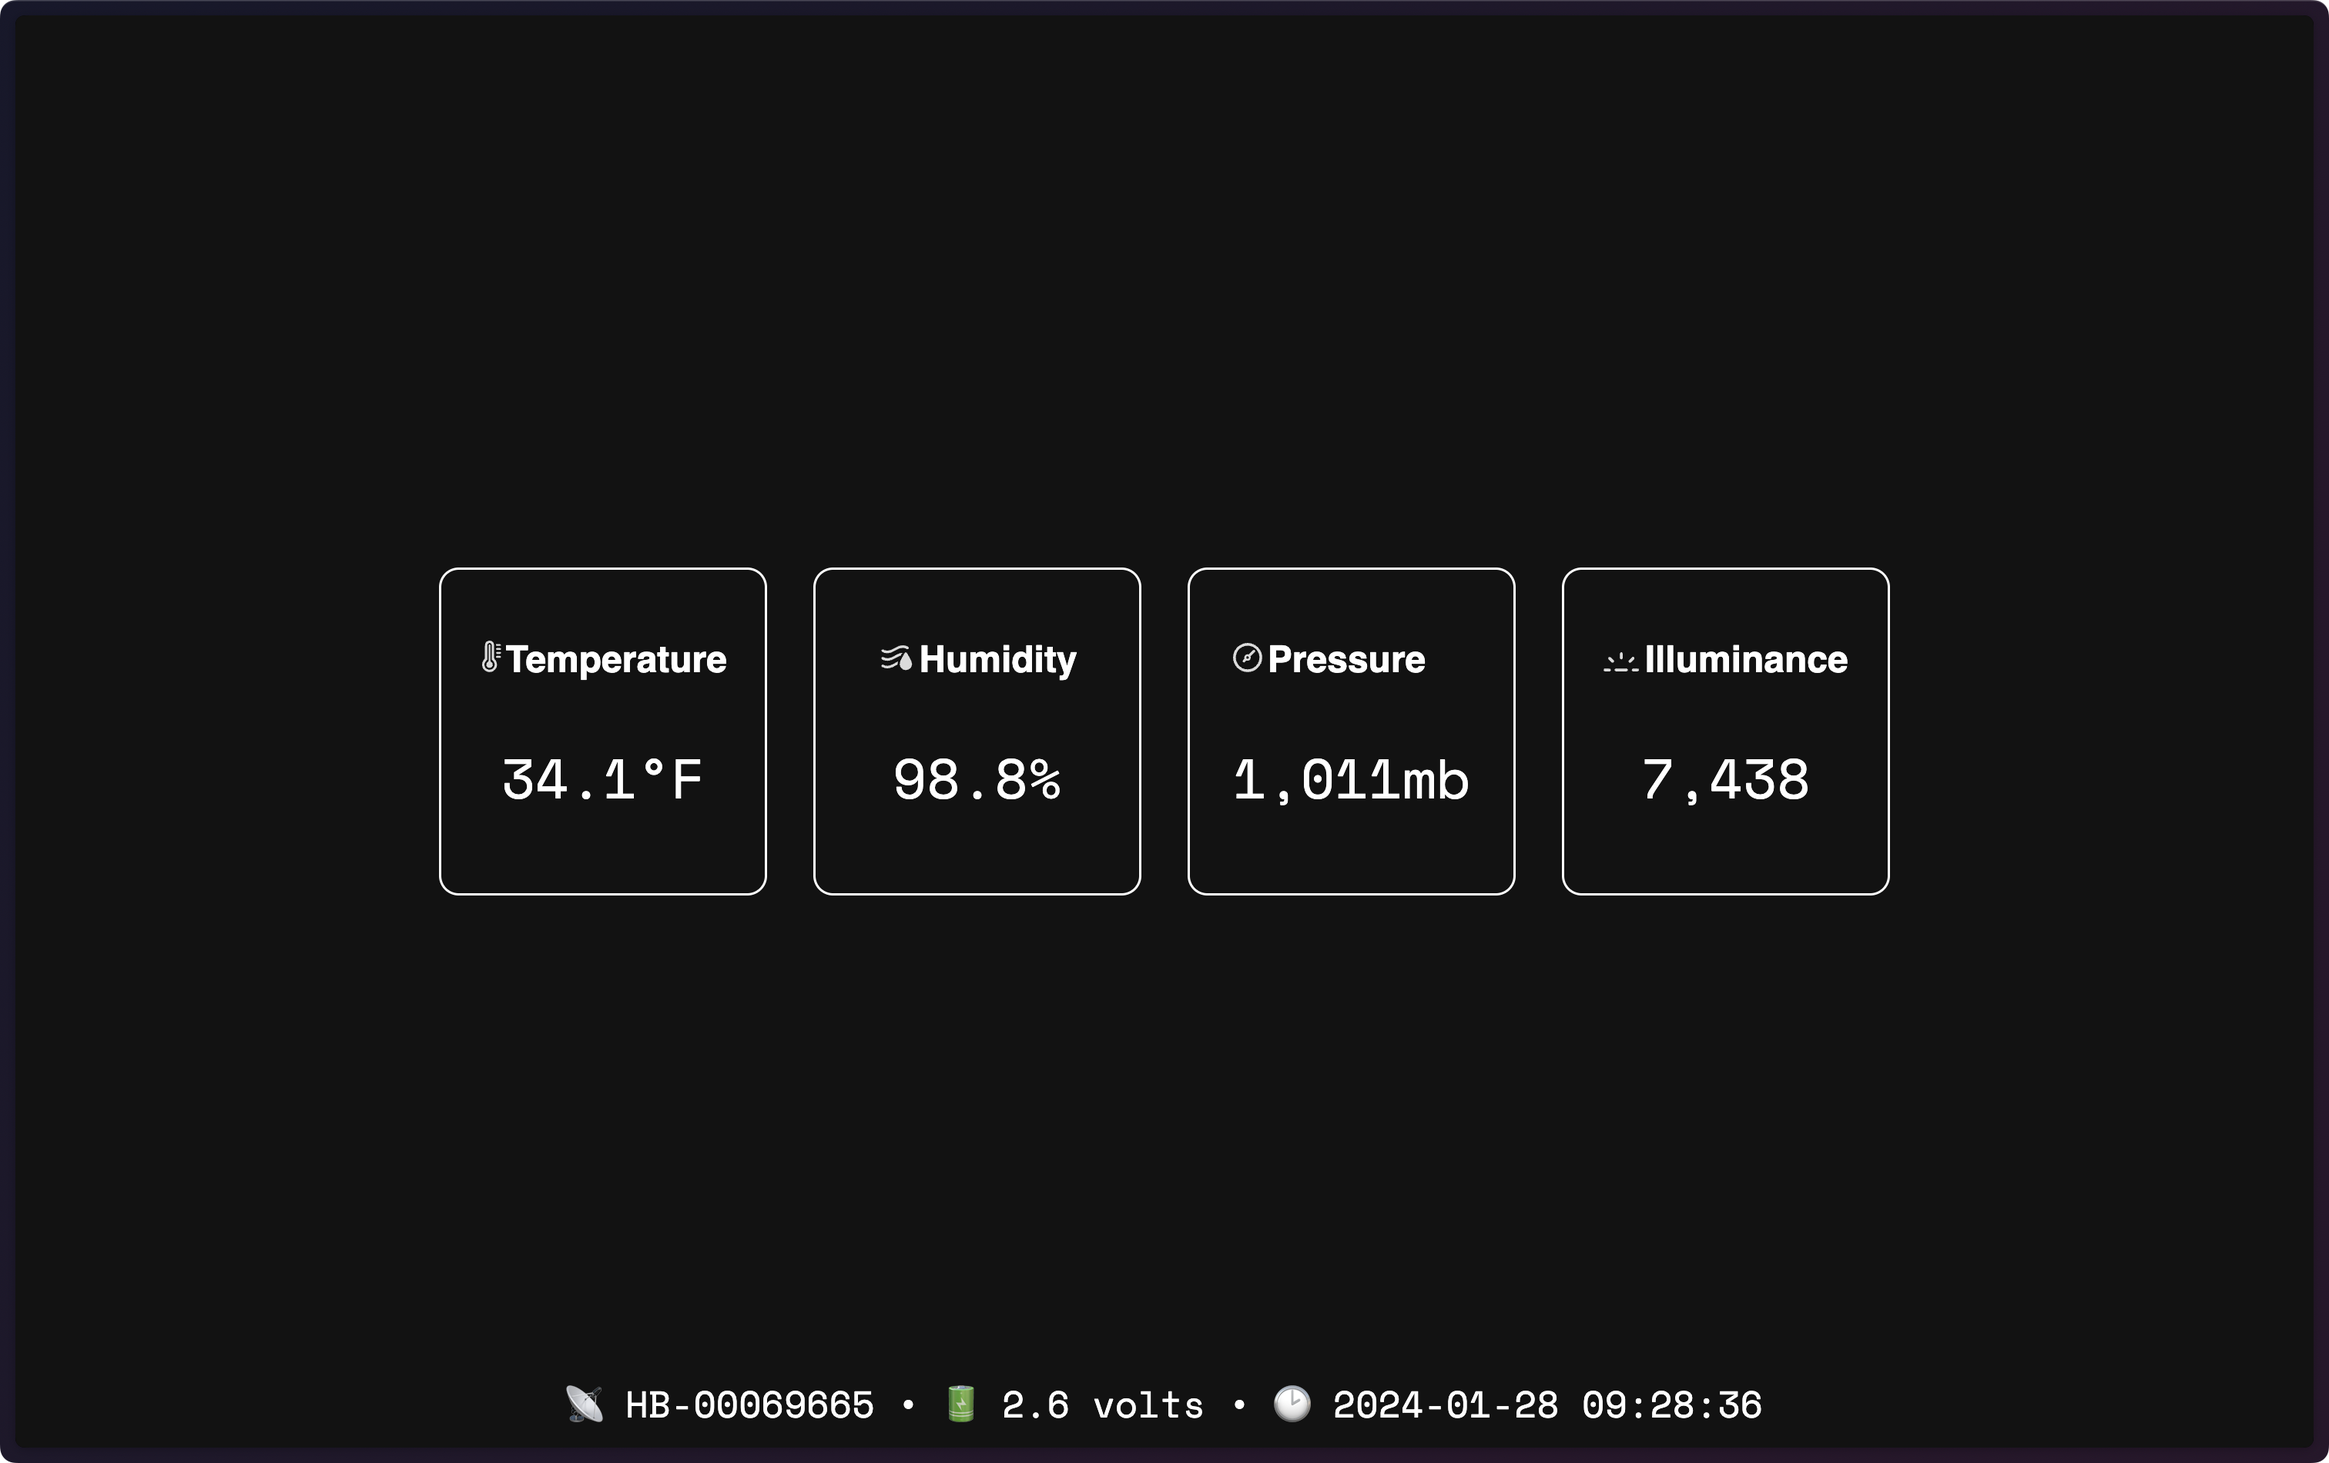
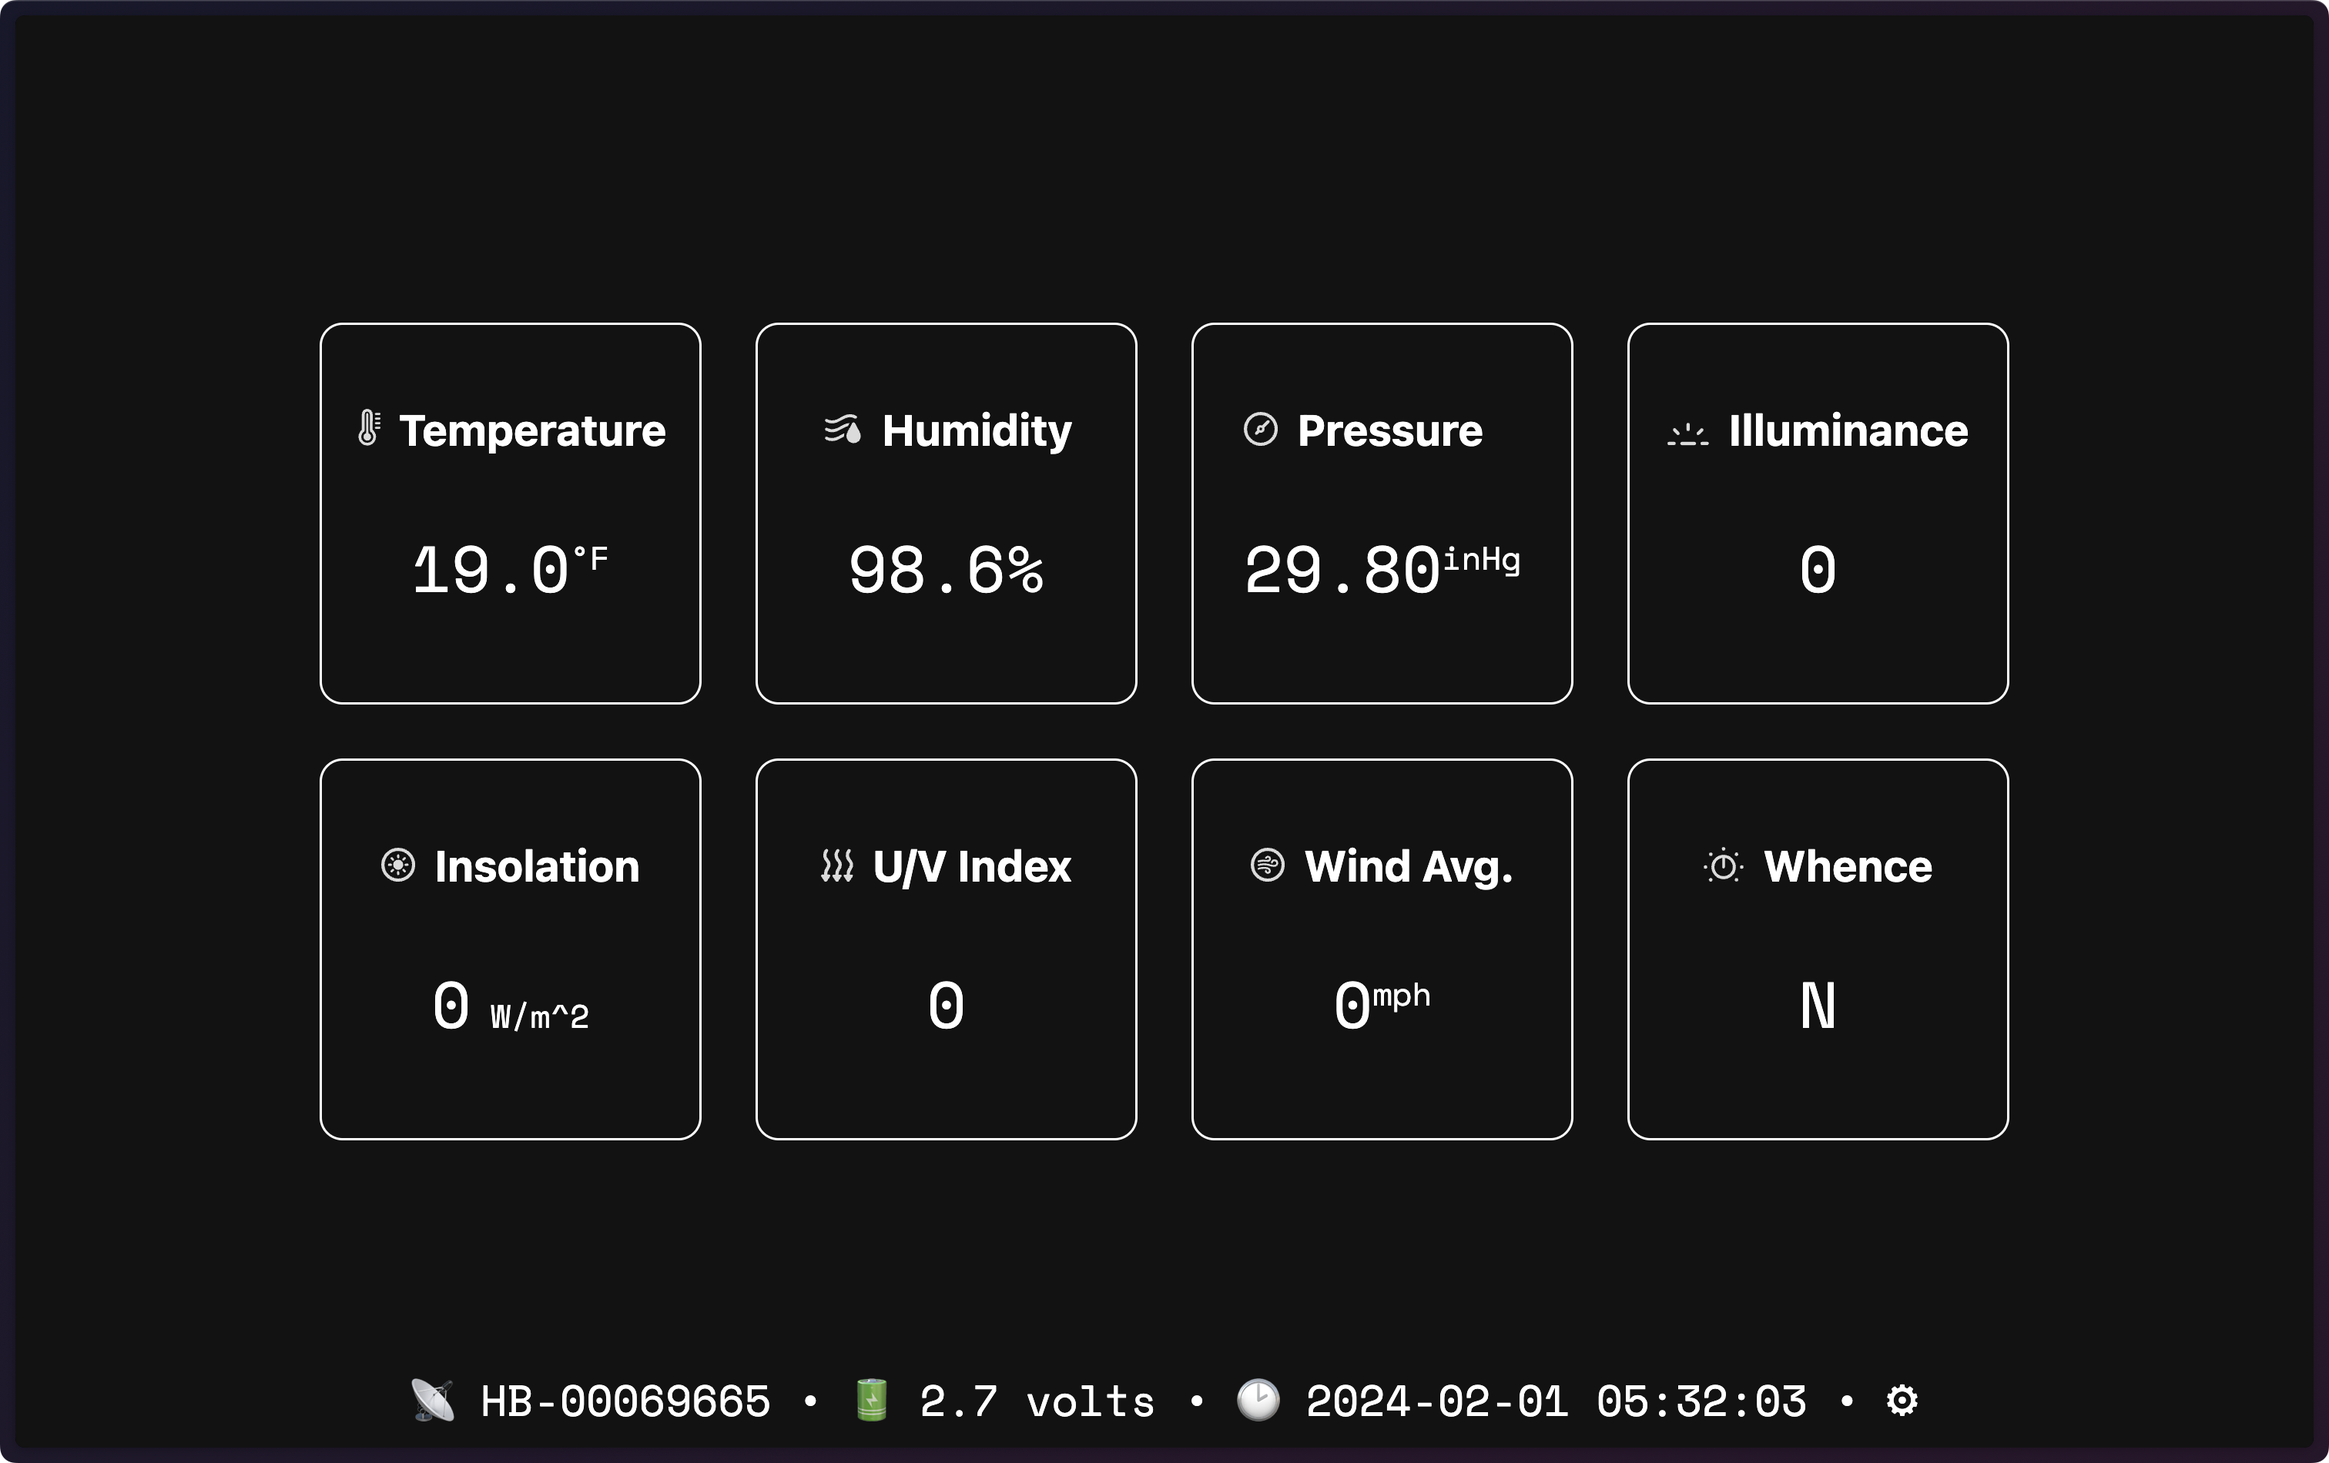
feat: preferencs!

diff --git a/layout.html b/layout.html
@@ -1,7 +1,7 @@
 <!DOCTYPE html>
 <html lang="en">
 <head>
-  <title>{{ .app_name }}</title>
+  <title>Weatherflow Tempest Weather</title>
   <meta charset="utf-8">
   <meta name="viewport" content="width=device-width, initial-scale=1">
   <meta name="color-scheme" content="dark light">
@@ -15,13 +15,13 @@
     body {
       margin: 0;
       padding: 0;
+      font-family: system-ui, -apple-system, BlinkMacSystemFont, 'Segoe UI', Roboto, Oxygen, Ubuntu, Cantarell, 'Open Sans', 'Helvetica Neue', sans-serif;
     }
     section {
       display: flex;
       justify-content: center;
       align-items: center;
       min-height: 100vh;
-      font-family: sans-serif;
     }
     .flex-container {
       display: flex;
@@ -58,13 +58,23 @@
       padding-bottom: 10px;
       font-family: 'Space Mono', monospace;
     }
+    svg {
+      padding-right: 3px;
+    }
+    .gear {
+      text-decoration: none;
+      font-size: 1.2em;
+    }
+    a.gear:link, a.gear:visited, a.gear:hover, a.gear:active {
+      color: white;
+    }
     @media (prefers-color-scheme: light) {
       .flex-item {
         border: 1px solid black;
       }
-    }
-    svg {
-      padding-right: 3px;
+      a.gear:link, a.gear:visited, a.gear:hover, a.gear:active {
+        color: black;
+      }
     }
   </style>
 </head>
@@ -72,7 +82,7 @@
 <body>
   {{ template "content" . }}
   <script type="module">
-    import { LitElement, html, unsafeHTML } from 'https://cdn.jsdelivr.net/gh/lit/dist@3/all/lit-all.min.js';
+    import { LitElement, html, unsafeHTML, css  } from 'https://cdn.jsdelivr.net/gh/lit/dist@3/all/lit-all.min.js';
 
     const svgtrans = {
        'temp': `<svg version="1.1" xmlns="http://www.w3.org/2000/svg" xmlns:xlink="http://www.w3.org/1999/xlink" width="9.47656" height="13.6484"> <style> path {fill: #000000; } @media (prefers-color-scheme: dark) {path {fill: #ffffff; } } </style> <g> <rect height="13.6484" opacity="0" width="9.47656" x="0" y="0" /> <path d="M7.72656 2.27344L9.07812 2.27344C9.32031 2.27344 9.47656 2.08594 9.47656 1.86719C9.47656 1.65625 9.32031 1.46875 9.07812 1.46875L7.72656 1.46875C7.48438 1.46875 7.32031 1.65625 7.32031 1.86719C7.32031 2.08594 7.48438 2.27344 7.72656 2.27344ZM7.72656 3.99219L9.07812 3.99219C9.32031 3.99219 9.47656 3.80469 9.47656 3.58594C9.47656 3.375 9.32031 3.1875 9.07812 3.1875L7.72656 3.1875C7.48438 3.1875 7.32031 3.375 7.32031 3.58594C7.32031 3.80469 7.48438 3.99219 7.72656 3.99219ZM7.72656 5.71094L9.07812 5.71094C9.32031 5.71094 9.47656 5.52344 9.47656 5.30469C9.47656 5.09375 9.32031 4.90625 9.07812 4.90625L7.72656 4.90625C7.48438 4.90625 7.32031 5.09375 7.32031 5.30469C7.32031 5.52344 7.48438 5.71094 7.72656 5.71094ZM7.72656 7.42969L9.07812 7.42969C9.32031 7.42969 9.47656 7.24219 9.47656 7.02344C9.47656 6.8125 9.32031 6.625 9.07812 6.625L7.72656 6.625C7.48438 6.625 7.32031 6.8125 7.32031 7.02344C7.32031 7.24219 7.48438 7.42969 7.72656 7.42969Z" fill-opacity="0.85" /> <path d="M4.53906 13.6328C6.33594 13.6328 7.79688 12.1719 7.79688 10.375C7.79688 9.42969 7.40625 8.60156 6.67969 7.92969C6.55469 7.8125 6.53125 7.75 6.53125 7.58594L6.53906 2.17969C6.53906 0.875 5.72656 0 4.53906 0C3.34375 0 2.53125 0.875 2.53125 2.17969L2.53125 7.58594C2.53125 7.75 2.50781 7.8125 2.39062 7.92969C1.66406 8.60156 1.27344 9.42969 1.27344 10.375C1.27344 12.1719 2.73438 13.6328 4.53906 13.6328ZM4.53906 12.6172C3.29688 12.6172 2.29688 11.6094 2.29688 10.375C2.29688 9.61719 2.66406 8.92969 3.30469 8.50781C3.48438 8.39062 3.55469 8.28906 3.55469 8.04688L3.55469 2.22656C3.55469 1.5 3.95312 1.02344 4.53906 1.02344C5.11719 1.02344 5.50781 1.5 5.50781 2.22656L5.50781 8.04688C5.50781 8.28906 5.58594 8.39062 5.76562 8.50781C6.39844 8.92969 6.77344 9.61719 6.77344 10.375C6.77344 11.6094 5.77344 12.6172 4.53906 12.6172Z" fill-opacity="0.85" /> <path d="M4.53125 11.7891C5.32031 11.7891 5.95312 11.1562 5.95312 10.3672C5.95312 9.82031 5.64062 9.36719 5.19531 9.125C5 9.01562 4.9375 8.94531 4.9375 8.66406L4.9375 2.07031C4.9375 1.77344 4.75781 1.59375 4.53125 1.59375C4.3125 1.59375 4.13281 1.77344 4.13281 2.07031L4.13281 8.66406C4.13281 8.94531 4.07031 9.01562 3.875 9.125C3.42188 9.36719 3.11719 9.82031 3.11719 10.3672C3.11719 11.1562 3.75 11.7891 4.53125 11.7891Z" fill-opacity="0.85" /> </g> </svg>`,
@@ -98,6 +108,34 @@
         return this;
       }
       
+      readingValue() {
+        if (this.reading === "⌛") return html`⌛`
+
+        if (this.id === "temp") {
+          const tempUnits = localStorage.getItem("tempestwx:Temperature Units") ?? "Fahrenheit"
+          const symbol = tempUnits == "Fahrenheit" ? "F" : "C"
+          let value = +this.reading
+          value = tempUnits == "Fahrenheit" ? value * 1.8 + 32 : value
+          value = value.toFixed(1)
+          return html`${value}<span style='vertical-align: super; font-size: 9pt;'>°${symbol}</span>`
+        } else if (this.id === "press") {
+          const pressureUnits = localStorage.getItem("tempestwx:Pressure Units") ?? "mb"
+          const symbol = pressureUnits == "mb" ? "mb" : "inHg"
+          let value = +this.reading
+          value = pressureUnits === "inHg" ? (value * 0.02953).toFixed(2) : value.toLocaleString()
+          return html`${value}<span style='vertical-align: super; font-size: 9pt;'>${symbol}</span>`
+        } else if (this.id === "wind") {
+          const windUnits = localStorage.getItem("tempestwx:Wind Units") ?? "mph"
+          const symbol = windUnits == "mph" ? "mph" : "kph"
+          let value = +this.reading
+          value = windUnits == "mph" ? value * 2.236936 : value
+          return html`${value}<span style='vertical-align: super; font-size: 9pt;'>${symbol}</span>`
+        } else if (this.id === "insol") {
+          return html`${this.reading}<span style='font-size:9pt'> W/m^2</span>`
+        }
+        return unsafeHTML(this.reading)
+      }
+
       render() {
         return html`
         <div class="flex-item">
@@ -106,7 +144,7 @@
               ${this.getSVG(this.id)}
               ${this.title}
             </h4>
-            <p>${unsafeHTML(this.reading)}</p>
+            <p>${this.readingValue()}</p>
           </div>
         </div>
         `;

diff --git a/prefs.html b/prefs.html
@@ -1,0 +1,128 @@
+<!DOCTYPE html>
+<html lang="en">
+<head>
+  <title>Weatherflow Tempest Weather • Preferences</title>
+  <meta charset="utf-8">
+  <meta name="viewport" content="width=device-width, initial-scale=1">
+  <meta name="color-scheme" content="dark light">
+  <meta name="description" content="Wx station" />
+  <link rel="preconnect" href="https://fonts.googleapis.com">
+  <link rel="preconnect" href="https://fonts.gstatic.com" crossorigin>
+  <link href="https://fonts.googleapis.com/css2?family=Space+Mono:wght@400;700&display=swap" rel="stylesheet">
+  <script defer src="https://unpkg.com/@livefir/fir@latest/dist/fir.min.js"></script>
+  <script defer src="https://unpkg.com/alpinejs@3.x.x/dist/cdn.min.js"></script>
+  <style>
+    body {
+      margin: 0;
+      padding: 0;
+      font-size: 1.2rem;
+      font-family: system-ui, -apple-system, BlinkMacSystemFont, 'Segoe UI', Roboto, Oxygen, Ubuntu, Cantarell, 'Open Sans', 'Helvetica Neue', sans-serif;
+    }
+    .back {
+      position: fixed;
+      left: 0;
+      top: 0;
+      padding-top: 10px;
+      padding-left: 10px;
+    }
+    .prefs-div {
+      position: absolute;
+      top: 50%;
+      left: 50%;
+      transform: translate(-50%, -50%);      
+    }
+    @media (prefers-color-scheme: light) {
+    }
+  </style>
+</head>
+
+<body>
+
+  <div class="back"><a href="/"><svg version="1.1" xmlns="http://www.w3.org/2000/svg" xmlns:xlink="http://www.w3.org/1999/xlink" width="23.1094" height="18.7656"> <style> path {fill: #000000; } @media (prefers-color-scheme: dark) {path {fill: #ffffff; } } </style> <g> <rect height="18.7656" opacity="0" width="23.1094" x="0" y="0"/> <path d="M0 9.375C0 9.71875 0.15625 10.0469 0.4375 10.3125L8.5 18.3594C8.78125 18.625 9.09375 18.75 9.42188 18.75C10.1094 18.75 10.6406 18.2344 10.6406 17.5312C10.6406 17.2031 10.5312 16.875 10.2969 16.6562L8.14062 14.4219L2.85938 9.67188L2.57812 10.3438L6.73438 10.6406L21.4844 10.6406C22.2188 10.6406 22.7344 10.1094 22.7344 9.375C22.7344 8.64062 22.2188 8.10938 21.4844 8.10938L6.73438 8.10938L2.57812 8.40625L2.85938 9.09375L8.14062 4.32812L10.2969 2.09375C10.5312 1.875 10.6406 1.54688 10.6406 1.21875C10.6406 0.515625 10.1094 0 9.42188 0C9.09375 0 8.78125 0.125 8.5 0.390625L0.4375 8.4375C0.15625 8.70312 0 9.03125 0 9.375Z" fill-opacity="0.85"/> </g> </svg></a></div>
+
+  <div class="prefs-div">
+    <units-pref label="Temperature Units" options="Fahrenheit,Celsius"></units-pref>
+    <units-pref label="Pressure Units" options="mb,inHg"></units-pref>
+    <units-pref label="Wind Units" options="mph,kph"></units-pref>
+  </div>
+
+<script type="module">
+  import { LitElement, html, unsafeHTML, css } from 'https://cdn.jsdelivr.net/gh/lit/dist@3/all/lit-all.min.js';
+
+  class UnitsPref extends LitElement {
+    static styles = css`
+      :host {
+        display: block;
+        margin: 30px;
+      }
+      label {
+        display: inline-block;
+        text-align: right;
+        width: 200px;
+        padding-right: 4px;
+      }
+      `;
+
+    static get properties() {
+      return {
+        label: { type: String },
+        options: { type: String },
+        selected: { type: String },
+        opts: { type: Array },
+      };
+    }
+
+    constructor() {
+      super();
+      this.label = '';
+      this.options = [];
+      this.selected = ''
+    }
+
+    firstUpdated() {
+      this.opts = this.options.split(",")
+      this.loadSelected();
+    }
+
+    async loadSelected() {
+      const key = this.label;
+      const storedValue = localStorage.getItem(`tempestwx:${key}`);
+      if (storedValue) {
+        this.selected = storedValue;
+      } else if (this.opts.length > 0) {
+        this.selected = this.opts[ 0 ];
+        localStorage.setItem(`tempestwx:${key}`, this.selected);
+      }
+      this.requestUpdate();
+    }
+
+    async handleChange(event) {
+      this.selected = event.target.value;
+      const key = this.label;
+      await localStorage.setItem(`tempestwx:${key}`, this.selected);
+    }
+
+    presentOptions() {
+      if (this.opts) {
+        return this.opts.map(
+          option => html`<option ?selected="${this.selected === option}" value="${option}">${option}</option>`
+        )
+      }
+      return html``
+    }
+
+    render() {
+      return html`
+        <label for="${this.label}">${this.label}: </label>
+        <select id="${this.label}" @change="${this.handleChange}" .value="${this.selected}">
+          ${this.presentOptions()}
+        </select>
+        `;
+    }
+  }
+
+  customElements.define('units-pref', UnitsPref);
+</script>
+
+</body>
+</html>

diff --git a/readings.html b/readings.html
@@ -2,7 +2,7 @@
 {{ block "readings-update" . }}
 <div x-data @fir:updated:ok::readings-update="$fir.replace()">
   <div class="status-bar">
-    <p>📡 {{ .hub }} • 🔋 {{ .batt }} • 🕑 {{ .when }}</p>
+    <p>📡 {{ .hub }} • 🔋 {{ .batt }} • 🕑 {{ .when }} • <a class="gear" href="/prefs">⚙</a></p>
   </div>
   <section>
     <div class="flex-container" id="weather-data">

diff --git a/main.go b/main.go
@@ -119,6 +119,16 @@ func (i *index) Options() fir.RouteOptions {
 	}
 }
 
+func prefs() fir.RouteOptions {
+	return fir.RouteOptions{
+		fir.ID("prefs"),
+		fir.Content("prefs.html"),
+		fir.OnLoad(func(ctx fir.RouteContext) error {
+			return ctx.Data(map[string]any{})
+		}),
+	}
+}
+
 func formatReading(reading ObsSt) map[string]any {
 	if reading.FirmwareRevision == 0 {
 		return map[string]any{
@@ -138,13 +148,13 @@ func formatReading(reading ObsSt) map[string]any {
 		return map[string]any{
 			"hub":   reading.HubSn,
 			"batt":  fmt.Sprintf("%.1f volts", reading.Obs[0][16]),
-			"temp":  fmt.Sprintf("%.1f<span style='vertical-align: super; font-size: 9pt;'>°F</span>", reading.Obs[0][7]*1.8+32),
+			"temp":  fmt.Sprintf("%.1f", reading.Obs[0][7]),
 			"humid": fmt.Sprintf("%.1f%%", lastReading.Obs[0][8]),
 			"lumos": Format(int64(reading.Obs[0][9])),
-			"press": Format(int64(reading.Obs[0][6])) + "<span style='font-size:9pt'> mb</span>",
-			"insol": Format(int64(reading.Obs[0][11])) + "<span style='font-size:9pt'> W/m^2</span>",
+			"press": strconv.FormatInt(int64(reading.Obs[0][6]), 10),
+			"insol": Format(int64(reading.Obs[0][11])),
 			"ultra": Format(int64(reading.Obs[0][10])),
-			"wind":  fmt.Sprintf("%.1f<span style='font-size:9pt'> mph</span>", reading.Obs[0][2]*2.236936),
+			"wind":  fmt.Sprintf("%.1f", reading.Obs[0][2]),
 			"wdir":  DegToCompass(reading.Obs[0][4]),
 			"when":  time.Now().Format("2006-01-02 15:04:05"),
 		}
@@ -192,11 +202,13 @@ func main() {
 
 	controller := fir.NewController(
 		"wx-app",
-		fir.DevelopmentMode(false),
+		fir.DevelopmentMode(true),
 		fir.WithPubsubAdapter(pubsubAdapter),
 	)
 
 	http.Handle("/", controller.Route(NewWxIndex(pubsubAdapter)))
+
+	http.Handle("/prefs", controller.RouteFunc(prefs))
 
 	if os.Getenv("SEEKRIT_TOKEN") == "" {
 		http.HandleFunc("/quit", func(w http.ResponseWriter, r *http.Request) {

diff --git a/README.md b/README.md
@@ -1,9 +1,12 @@
 # Self-contained HTML Weatherflow Tempest Readings Display
 
+![](imgs/arc.png)
+
 ## TODO
 
 - [ ] Handle other Tempest UDP events
-- [ ] Preferences form/route
+- [X] Preferences form/route
+- [X] Handle most UI value formatting in HTML/JS
 - [ ] SQLite data logger option
   - [ ] Charts
   - [ ] Data export
@@ -43,6 +46,8 @@ It uses:
 
 {fir} is pretty neat! It uses websockets for comms and only updates the portions of the web page that have data changes.
 
+Arc (dark mode) is shown up top. I'll take new captures of these (below) eventually.
+
 **Windows** (tablet/Chrome)
 
 ![](imgs/tablet.png)
@@ -50,10 +55,6 @@ It uses:
 **iOS**
 
 ![](imgs/iphone.jpg)
-
-**Arc** (dark mode)
-
-![](imgs/arc.png)
 
 **Safari** (light mode)
 
